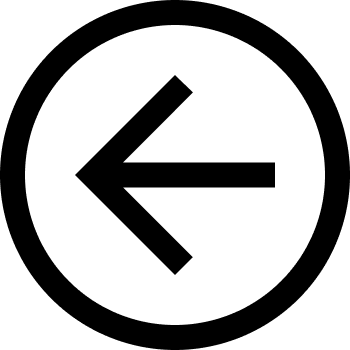
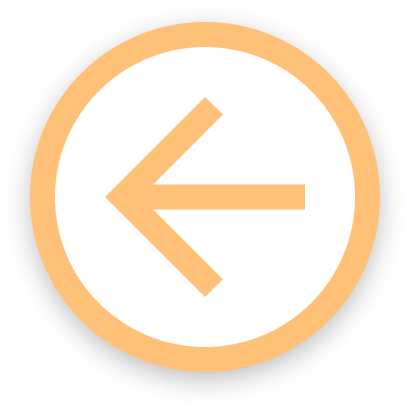
update

diff --git a/dist/css/styles.css b/dist/css/styles.css
@@ -11903,14 +11903,13 @@ nav {
   position: absolute;
   top: 27rem;
   width: 5vw;
-  opacity: 0.2;
+  opacity: 1;
   cursor: pointer;
   transition: ease-in-out 0.2s;
 }
 
 .arrowLeft:hover,
 .arrowRight:hover {
-  opacity: 0.4;
   scale: 1.1;
 }
 

diff --git a/src/scss/styles.scss b/src/scss/styles.scss
@@ -51,14 +51,13 @@ nav {
   position: absolute;
   top: 27rem;
   width: 5vw;
-  opacity: 0.2;
+  opacity: 1;
   cursor: pointer;
   transition: ease-in-out 0.2s;
 }
 
 .arrowLeft:hover,
 .arrowRight:hover {
-  opacity: 0.4;
   scale: 1.1;
 }
 
